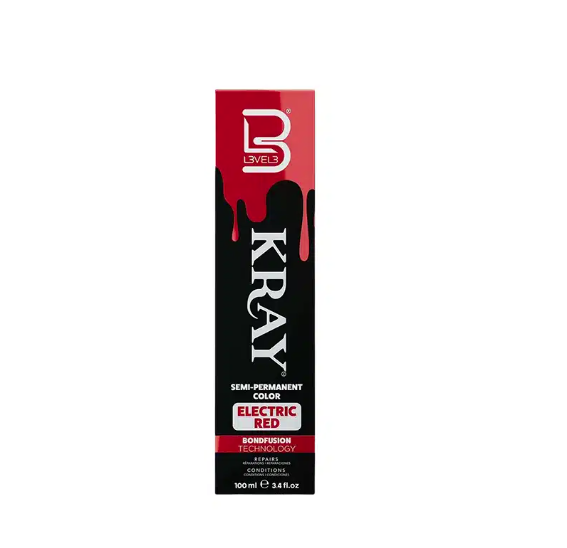
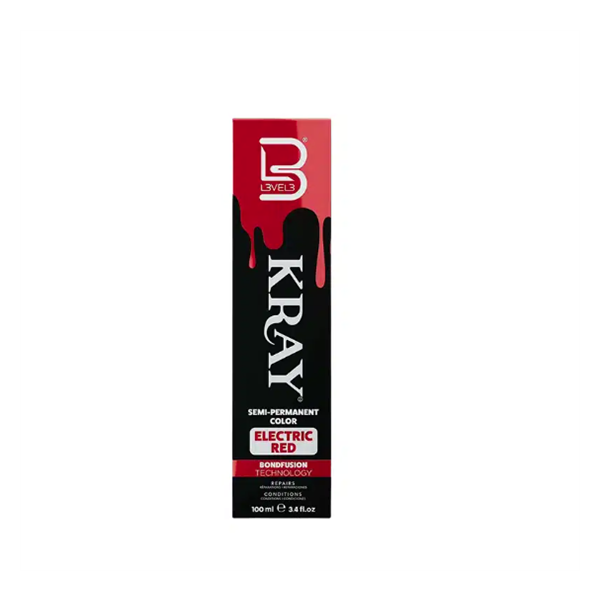
Unificar imagenes de productos a 600x600 sin recorte

Changed region(s): [[0.3598, 0.1551, 0.5697, 0.9307]]

diff --git a/Assets/css/productos.css b/Assets/css/productos.css
@@ -117,7 +117,7 @@
 
     width: 100%;
     height: 100%;
-    object-fit: cover;
+    object-fit: contain;
     border-radius: 15px 15px 0 0;
     transition: 0.4s;
 
@@ -125,7 +125,7 @@
 
 .card-producto img.img-tinte-light-blue-card{
 
-    object-fit: cover;
+    object-fit: contain;
     padding: 0;
     background: transparent;
     object-position: center;
